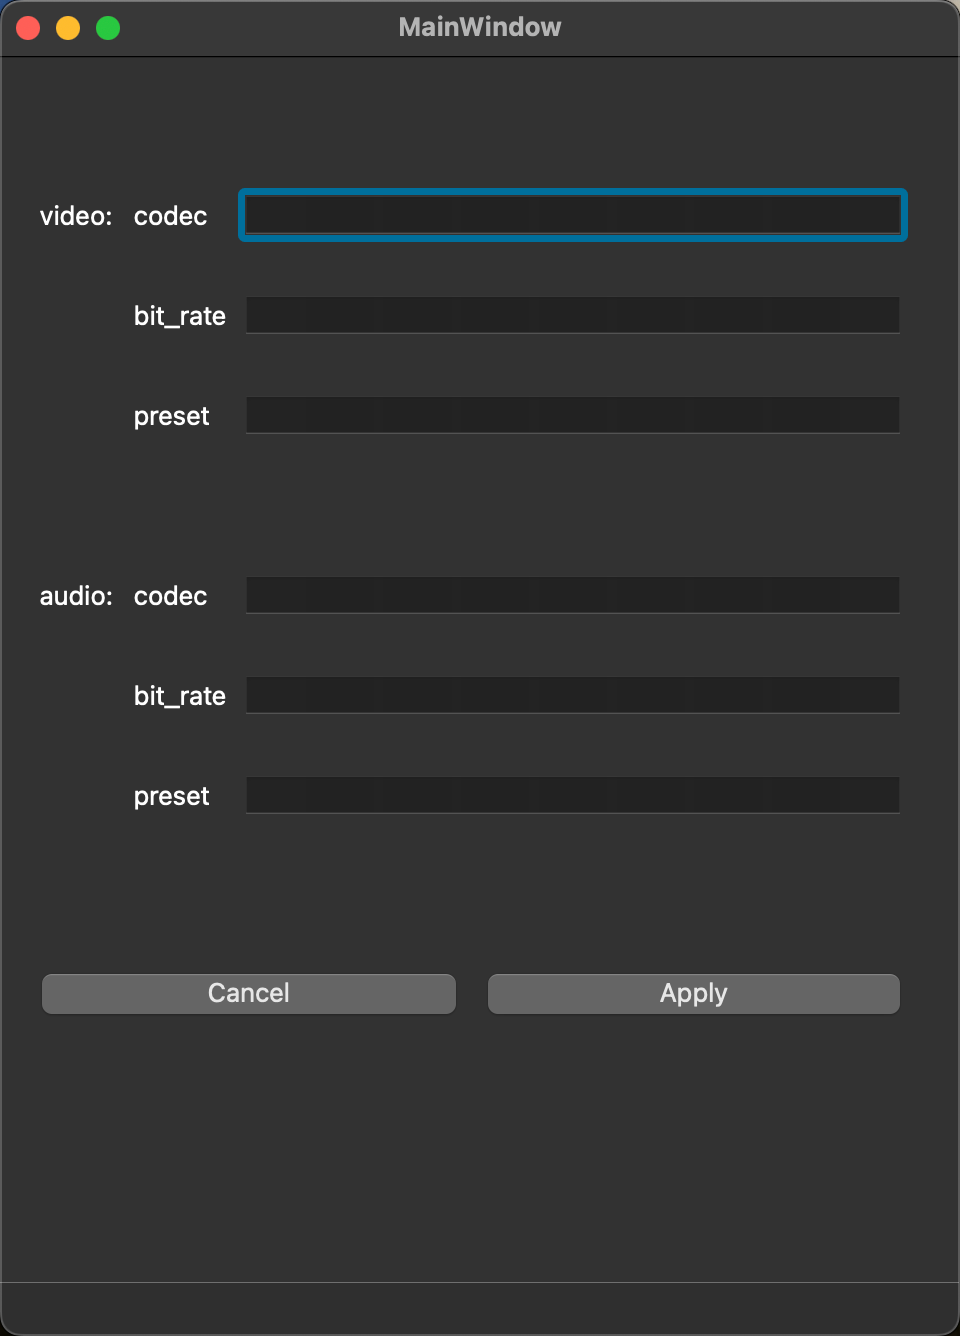
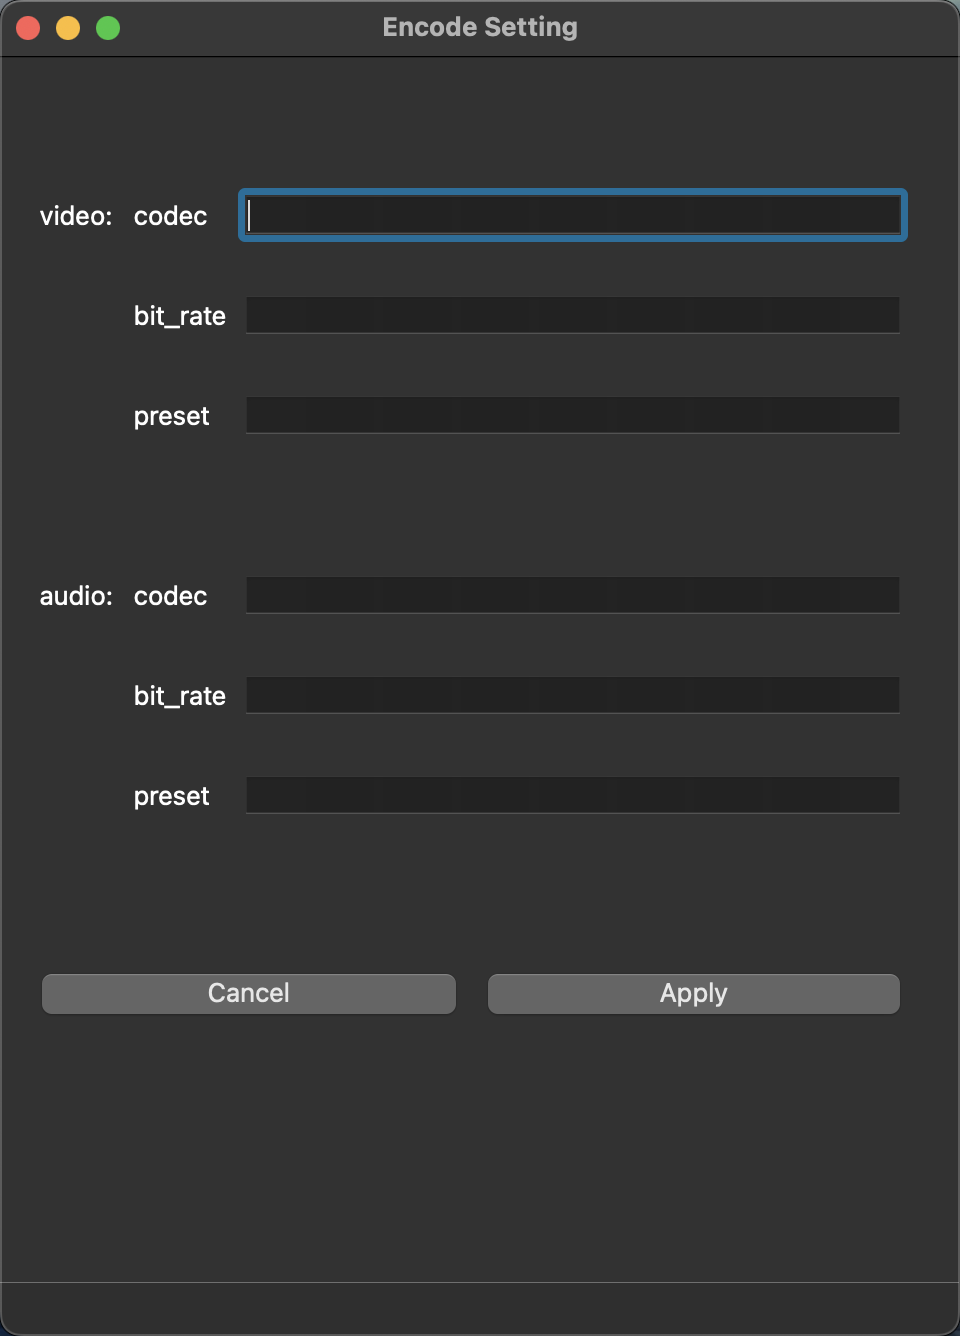
update README.md

Changed region(s): [[0.25, 0.1228, 0.9688, 0.1841], [0.4062, 0.0, 0.5938, 0.0307], [0.0625, 0.0, 0.125, 0.0307]]

diff --git a/README.md b/README.md
@@ -20,8 +20,13 @@ FFmpeg 开发教程可参考 [Learn FFmpeg the Hard Way](https://github.com/TSGU
 
 运行 OpenConverter 后，您可以看到并使用以下功能：
 
-![main window](./img/main_window.png)
-![encode setting](./img/encode_setting.png)
+<div align="center">
+
+<img src="./img/open_converter.png" style="width:100%">
+
+<img src="./img/encode_setting.png" style="width:50%">
+
+</div>
 
 ### 1. 支持更改视频编解码器以进行编码（例如libx264，libx265）
 
